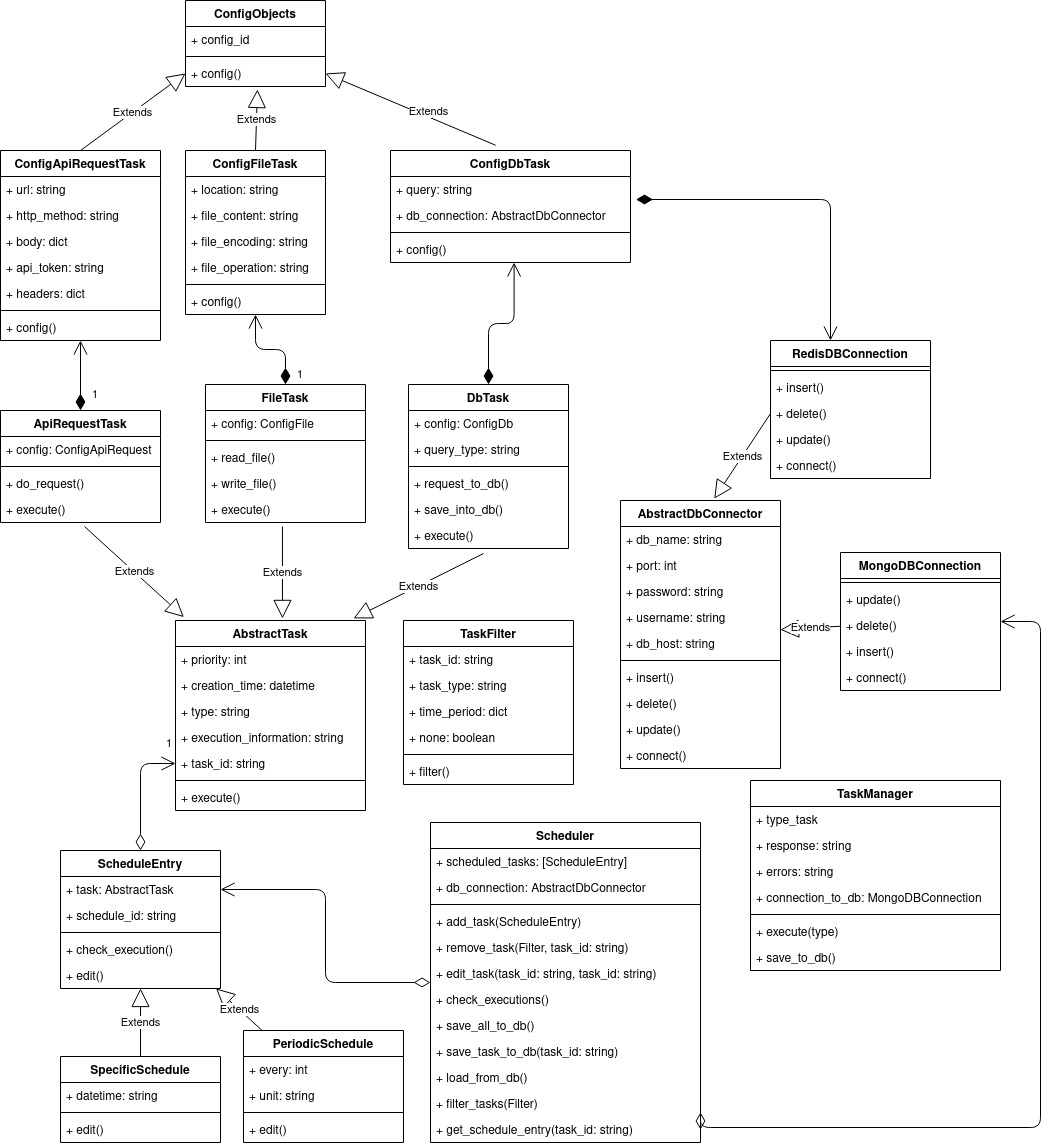
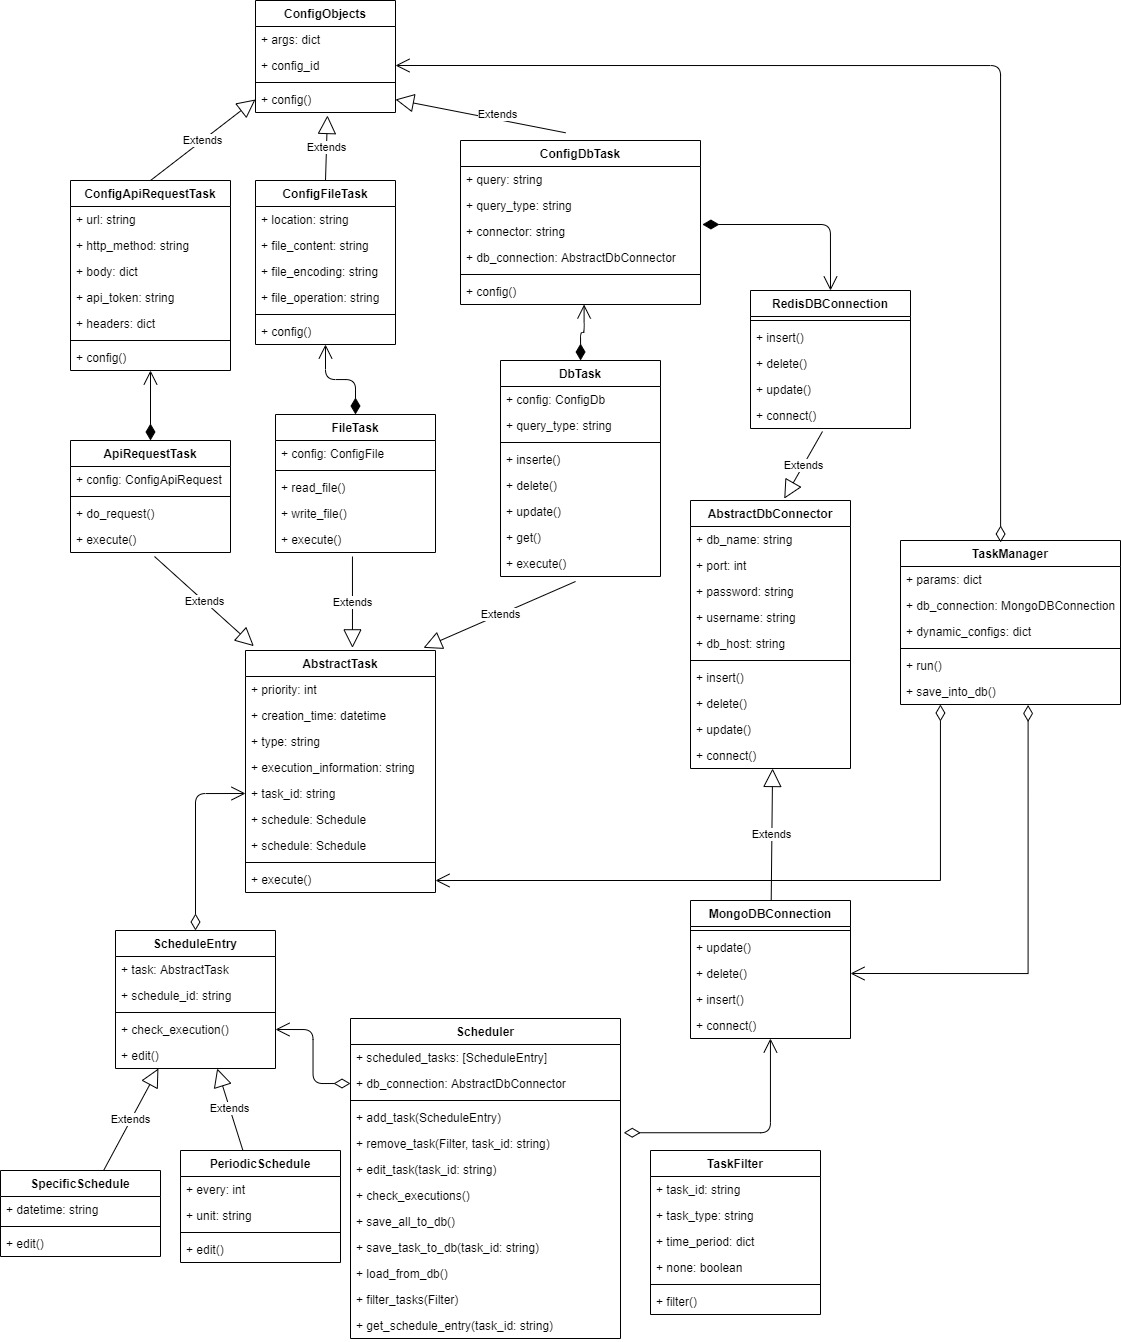
Updating class diagram

diff --git a/task_scheduler/task_manager.py b/task_scheduler/task_manager.py
@@ -49,50 +49,8 @@ class TaskManager:
         self.errors = None
         self.logger = CustomLogger(__name__)
         
-    def execute(self):
-        """Executes the task given the configs and saves its results in self object
-        :return:
-        """
 
-        run_arg = {
-            "type": self.type_task,
-            "configs": ObjectId(self.configuration_id)
-        }
-        task_args = self.connection_to_db.get("tasks", run_arg)[0]
-        config_args = self.connection_to_db.get("configs", {"_id":ObjectId(self.configuration_id)})[0]
-        self.instantiate(task_args, config_args)
-        
-        try:
-            self.result = self.task.execute()
-            return self.result
-        except Exception as e:
-            self.errors = str(e)
-            self.logger.info(f'Error executing task: {self.errors}')
-            return self.errors
-
-    def instantiate(self, task_args, config_args):
-        if self.type_task == "Api-request":
-            self.config = ConfigApiRequestTask(config_args)
-            self.task = ApiRequestTask(
-                            priority=task_args["priority"],
-                            config=self.config
-                            )
-
-        elif self.type_task == "Db":
-            self.config = ConfigDbTask(config_args)
-            self.task = DbTask(
-                            priority=task_args["priority"],
-                            config=self.config
-                            )
-
-        elif self.type_task == "File":
-            self.config = ConfigFileTask(config_args)
-            self.task = FileTask(
-                            priority=task_args["priority"],
-                            config=self.config
-                            )
-
-    def execute_dinamically(self):
+    def run(self):
         """Executes the task and saves its results to the DB.
         It creates a config object and task result to be into Db using self.save_into_db()
         :returns: True if there is no error and False if some error occurs (logs it)
@@ -189,3 +147,46 @@ class TaskManager:
         except Exception as err:
             self.logger.error(f'Error registering task results into db: {err}')
             return {'task_result_id': '', 'config_id': '', 'task_id': ''}
+            
+    # def execute(self):
+    #     """Executes the task given the configs and saves its results in self object
+    #     :return:
+    #     """
+
+    #     run_arg = {
+    #         "type": self.type_task,
+    #         "configs": ObjectId(self.configuration_id)
+    #     }
+    #     task_args = self.connection_to_db.get("tasks", run_arg)[0]
+    #     config_args = self.connection_to_db.get("configs", {"_id":ObjectId(self.configuration_id)})[0]
+    #     self.instantiate(task_args, config_args)
+        
+    #     try:
+    #         self.result = self.task.execute()
+    #         return self.result
+    #     except Exception as e:
+    #         self.errors = str(e)
+    #         self.logger.info(f'Error executing task: {self.errors}')
+    #         return self.errors
+
+    # def instantiate(self, task_args, config_args):
+    #     if self.type_task == "Api-request":
+    #         self.config = ConfigApiRequestTask(config_args)
+    #         self.task = ApiRequestTask(
+    #                         priority=task_args["priority"],
+    #                         config=self.config
+    #                         )
+
+    #     elif self.type_task == "Db":
+    #         self.config = ConfigDbTask(config_args)
+    #         self.task = DbTask(
+    #                         priority=task_args["priority"],
+    #                         config=self.config
+    #                         )
+
+    #     elif self.type_task == "File":
+    #         self.config = ConfigFileTask(config_args)
+    #         self.task = FileTask(
+    #                         priority=task_args["priority"],
+    #                         config=self.config
+    #                         )

diff --git a/task_scheduler/endpoints/db_task_endpoint.py b/task_scheduler/endpoints/db_task_endpoint.py
@@ -50,7 +50,7 @@ class DbTaskEndpoint(MethodResource, Resource):
                         'configuration_id': '',
                         'dynamic_configs': configuration,
                         })
-            res = tm.execute_dinamically()
+            res = tm.run()
 
         except:
             return make_response(jsonify({

diff --git a/task_scheduler/endpoints/api_request_tasks.py b/task_scheduler/endpoints/api_request_tasks.py
@@ -86,7 +86,7 @@ class ApiRequestTaskExecEndpoint(MethodResource, Resource):
             'dynamic_configs': request_configs,
         })
 
-        res = tm.execute_dinamically()
+        res = tm.run()
 
         if tm.errors is not None:
             return make_response(jsonify({
